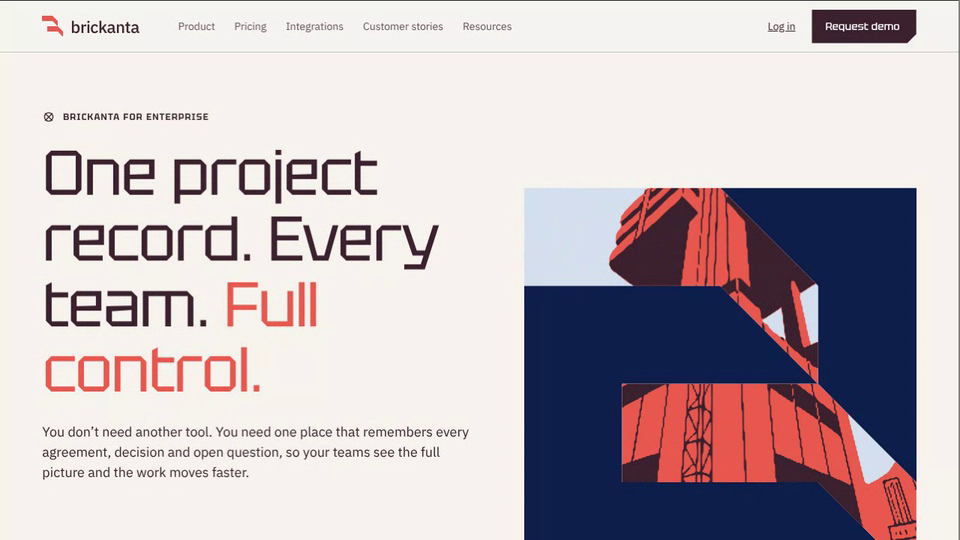
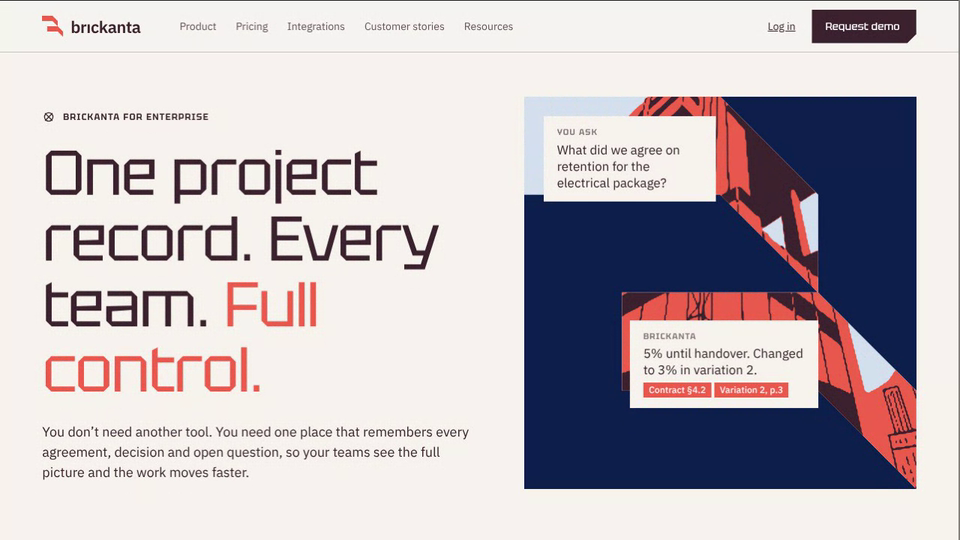
Brickanta Enterprise: morphing footer shapes, hero tile raised with blurbs back, dotless semibold logotype
Claude-Session: https://claude.ai/code/session_01AHeBdyM2bYAGUeyg7LiTk8

Changed region(s): [[0.5312, 0.1778, 0.9688, 1.0], [0.1875, 0.0296, 0.5312, 0.0593], [0.0625, 0.0296, 0.1562, 0.0593]]

diff --git a/brickanta-enterprise/index.html b/brickanta-enterprise/index.html
@@ -83,7 +83,7 @@ header nav a{text-decoration:none;opacity:.78}header nav a:hover{opacity:1;text-
 .hl.top{position:absolute;left:0;right:0;top:0}
 
 /* the mark as a window: coral tile, the logo's two shapes cut out, a scene seen through them */
-.tile{position:relative;aspect-ratio:1;background:var(--navy);width:100%;max-width:560px;justify-self:end}
+.tile{align-self:start;margin-top:-18px;position:relative;aspect-ratio:1;background:var(--navy);width:100%;max-width:560px;justify-self:end}
 .tile .win{position:absolute;inset:0;overflow:hidden}
 .tile .winA{clip-path:url(#markA)}.tile .winB{clip-path:url(#markB)}
 .tile .in-a,.tile .in-b{position:absolute;inset:-12%;background:var(--ice);transition:transform 1.6s var(--ease)}
@@ -91,11 +91,11 @@ header nav a{text-decoration:none;opacity:.78}header nav a:hover{opacity:1;text-
 .tile.go .in-a,.tile.go .in-b{transform:none}
 .tile .lines{position:absolute;inset:0;color:var(--navy);opacity:.16;background-size:auto}
 .tile .scene{position:absolute;left:9.68%;top:9.68%;width:80.64%;height:80.64%}
-.msg{position:absolute;font-size:clamp(11px,1.45vw,17px);line-height:1.3;color:var(--plum)}
+.msg{z-index:3;background:var(--paper);padding:.85em 1.05em;position:absolute;font-size:clamp(11px,1.45vw,17px);line-height:1.3;color:var(--plum)}
 .msg small{display:block;font-size:.66em;letter-spacing:.14em;text-transform:uppercase;font-weight:600;opacity:.6;margin-bottom:.4em}
 .msg .src{display:inline-block;margin-top:.5em;padding:.15em .6em;background:var(--coral);color:#fff;font-size:.72em;font-weight:500}
-.mA{left:6%;top:6%;width:42%}
-.mB{left:30%;top:56%;width:44%}
+.mA{left:5%;top:5%;width:44%}
+.mB{left:27%;top:57%;width:48%}
 .tile .tag{position:absolute;right:5%;bottom:4%;font-size:12px;letter-spacing:.14em;text-transform:uppercase;font-weight:600;color:#fff;opacity:.9}
 @media(max-width:860px){.hero .wrap{grid-template-columns:1fr}.tile{justify-self:start;max-width:440px}.facts{grid-template-columns:1fr}.facts div+div{border-left:0;padding-left:0;border-top:1px solid rgba(60,34,46,.25);margin-top:16px}}
 
@@ -249,7 +249,8 @@ header nav a{text-decoration:none;opacity:.78}header nav a:hover{opacity:1;text-
 .cta{overflow:hidden}
 .cta h2{font-size:clamp(40px,7.4vw,112px);color:#fff;max-width:14ch;position:relative}
 .cta .wrap{position:relative}
-.cta .mk{position:absolute;right:var(--pad);top:50%;width:clamp(160px,26vw,380px);transform:translateY(-50%);opacity:.95}
+.cta{min-height:clamp(520px,46vw,700px);display:flex;align-items:center}.cta .wrap{width:100%}
+.cta .mk{position:absolute;right:var(--pad);top:50%;width:clamp(240px,42vw,640px);aspect-ratio:1;transform:translateY(-50%);overflow:visible}
 .cta p{margin-top:22px;font-size:19px}
 @media(max-width:860px){.cta .mk{opacity:.18}}
 
@@ -293,7 +294,7 @@ h2{font-size:clamp(30px,3.8vw,54px);line-height:1.08}
 .sys{--cut:clamp(14px,1.6vw,24px)}
 /* Tektur runs wide, so tighten it a little */
 h1,h2,h3,.cost q,.tabs .t,.card .big,.faq summary,footer .tag{letter-spacing:-.03em}
-.brand{font-family:var(--sans);font-weight:500;letter-spacing:-.02em}
+.brand{font-family:var(--sans);font-weight:600;letter-spacing:-.02em}
 .panel a.more,.chips span{font-family:var(--sans);letter-spacing:0}.panel a.more{font-weight:500}.btn{letter-spacing:0}
 .cost .n,.edge .big,.stats .v,.role .num,.plan .price{letter-spacing:-.055em}
 .eyebrow,footer h4,.card .hd,.tile .tag,.msg small{letter-spacing:.1em}
@@ -324,7 +325,7 @@ h1,h2,h3,.cost q,.tabs .t,.card .big,.faq summary,footer .tag{letter-spacing:-.0
 
 <header class="site">
   <div class="wrap">
-    <a class="brand" href="#top" aria-label="Brickanta"><svg style="color:var(--coral)"><use href="#mark"/></svg>brickanta</a>
+    <a class="brand" href="#top" aria-label="Brickanta"><svg style="color:var(--coral)"><use href="#mark"/></svg>brıckanta</a>
     <nav aria-label="Main"><a href="#system">Product</a><a href="#pricing">Pricing</a><a href="#live">Integrations</a><a href="#results">Customer stories</a><a href="#faq">Resources</a></nav>
     <div class="hdr-r"><a href="#" onclick="return false">Log in</a><a class="btn" href="#demo">Request demo</a></div>
   </div>
@@ -345,9 +346,11 @@ h1,h2,h3,.cost q,.tabs .t,.card .big,.faq summary,footer .tag{letter-spacing:-.0
         <div><span class="hl top"></span><b>Every answer has a source</b>Linked to the page it came from</div>
       </div>
     </div>
-    <div class="tile" id="tile" role="img" aria-label="A coral tile with two angled windows in the shape of the Brickanta logo, showing a tower seen from below in maroon and coral.">
+    <div class="tile" id="tile" role="img" aria-label="A coral tile with two angled windows in the shape of the Brickanta logo, showing a tower seen from below in maroon and coral, with a question about retention and its sourced answer.">
       <div class="win winA"><div class="in-a"><svg class="scene"><use href="#ill"/></svg></div></div>
       <div class="win winB"><div class="in-b"><svg class="scene"><use href="#ill"/></svg></div></div>
+      <div class="msg mA"><small>You ask</small>What did we agree on retention for the electrical package?</div>
+      <div class="msg mB"><small>Brickanta</small>5% until handover. Changed to 3% in variation 2.<br><span class="src">Contract §4.2</span> <span class="src">Variation 2, p.3</span></div>
     </div>
   </div>
 </section>
@@ -516,7 +519,7 @@ h1,h2,h3,.cost q,.tabs .t,.card .big,.faq summary,footer .tag{letter-spacing:-.0
     <h2 class="rv" style="margin-top:22px">See Brickanta in action</h2>
     <p class="lede rv" style="--d:.1s;opacity:1;color:var(--navy)">Get a closer look at the platform built for construction teams.</p>
     <div class="row-btns rv" style="--d:.2s"><a class="btn light" href="#demo">Request demo</a><a class="btn alt" href="#pricing">Explore pricing</a></div>
-    <svg class="mk" style="color:#fff"><use href="#mark"/></svg>
+    <svg class="mk morph" id="morph" viewBox="0 0 6 6" aria-hidden="true"><polygon id="mA" fill="#fff"/><polygon id="mB" fill="#0e1f4c"/></svg>
   </div>
 </section>
 </main>
@@ -524,7 +527,7 @@ h1,h2,h3,.cost q,.tabs .t,.card .big,.faq summary,footer .tag{letter-spacing:-.0
 <footer>
   <div class="wrap">
     <div class="fgrid">
-      <div><a class="brand" href="#top"><svg style="color:var(--coral)"><use href="#mark"/></svg>brickanta</a><p class="tag">Run your construction projects like craft.</p></div>
+      <div><a class="brand" href="#top" aria-label="Brickanta"><svg style="color:var(--coral)"><use href="#mark"/></svg>brıckanta</a><p class="tag">Run your construction projects like craft.</p></div>
       <div><h4><span>01</span>Product</h4><ul><li><a href="#system">Features</a></li><li><a href="#pricing">Pricing</a></li><li><a href="#live">Integrations</a></li><li><a href="#results">Customers</a></li><li><a href="#">Changelog</a></li></ul></div>
       <div><h4><span>02</span>Teams</h4><ul><li><a href="#roles">Estimating &amp; Bid</a></li><li><a href="#roles">Procurement</a></li><li><a href="#roles">Project leads</a></li><li><a href="#roles">Leadership</a></li></ul></div>
       <div><h4><span>03</span>Company</h4><ul><li><a href="#">About us</a></li><li><a href="#">Careers</a></li><li><a href="#">Blog</a></li><li><a href="#">Brickanta Summit</a></li><li><a href="#">Academy</a></li></ul></div>
@@ -591,6 +594,47 @@ h1,h2,h3,.cost q,.tabs .t,.card .big,.faq summary,footer .tag{letter-spacing:-.0
   var tile=$('#tile');requestAnimationFrame(function(){requestAnimationFrame(function(){tile.classList.add('go')})});
   /* hairlines in the hero facts and steps */
   [].forEach.call(document.querySelectorAll('.hl.top'),function(h,i){h.style.transitionDelay=(.5+i*.15)+'s';setTimeout(function(){h.classList.add('in')},100)});
+
+
+  /* ---- footer morph: two bars with 45 degree turns on a 6 x 6 grid, every second a new combination ---- */
+  (function(){
+    var svg=$('#morph');if(!svg)return;
+    var base=function(w,d){return [[0,0],[w,0],[w+d,d],[w+d,d+1],[w,1],[0,1]]};
+    /* x,y = top-left on the grid, w = length of the flat part, d = length of the diagonal, r = quarter turns, m = mirrored */
+    function shape(x,y,w,d,r,m){
+      var bw=w+d,bh=d+1,pts=base(w,d);
+      if(m){pts=pts.map(function(q){return [bw-q[0],q[1]]}).reverse()}
+      for(var k=0;k<r;k++){var H=(k%2?bw:bh);pts=pts.map(function(q){return [H-q[1],q[0]]});var t=bw;bw=bh;bh=t}
+      return pts.map(function(q){return [q[0]+x,q[1]+y]});
+    }
+    var COMBOS=[
+      [[0,0,3,2,0,0],[1,3,3,2,0,0]],
+      [[1,0,3,2,0,1],[0,3,3,2,0,1]],
+      [[0,0,3,2,1,0],[3,1,3,2,1,0]],
+      [[3,0,3,2,1,1],[0,1,3,2,1,1]],
+      [[1,0,3,2,2,0],[0,3,3,2,2,0]],
+      [[0,1,3,2,3,0],[3,0,3,2,3,0]],
+      [[0,0,4,2,0,0],[0,3,4,2,0,1]],
+      [[0,1,4,1,0,0],[1,4,4,1,0,0]]
+    ].map(function(c){return c.map(function(a){return shape.apply(null,a)})});
+    var A=$('#mA'),B=$('#mB'),cur=0,tw=null;
+    function put(poly,pts){poly.setAttribute('points',pts.map(function(q){return q[0].toFixed(3)+','+q[1].toFixed(3)}).join(' '))}
+    function draw(c){put(A,c[0]);put(B,c[1])}
+    draw(COMBOS[0]);
+    var ease=function(t){return t<.5?4*t*t*t:1-Math.pow(-2*t+2,3)/2};
+    function to(i,dur){
+      var from=COMBOS[cur],dest=COMBOS[i];cur=i;
+      if(!dur){draw(dest);return}
+      cancelAnimationFrame(tw);var t0=performance.now();
+      (function f(now){var u=Math.min(1,(now-t0)/dur),e=ease(u);
+        draw([0,1].map(function(s){return from[s].map(function(q,k){return [q[0]+(dest[s][k][0]-q[0])*e,q[1]+(dest[s][k][1]-q[1])*e]})}));
+        if(u<1)tw=requestAnimationFrame(f)})(t0);
+    }
+    var seen=false,reduce=window.matchMedia&&matchMedia('(prefers-reduced-motion: reduce)').matches;
+    new IntersectionObserver(function(e){seen=e[0].isIntersecting},{threshold:.2}).observe(svg);
+    if(!reduce&&!CLIP)setInterval(function(){if(seen)to((cur+1)%COMBOS.length,700)},1000);
+    window.__mk={n:COMBOS.length,show:function(i){to(i,0)}};
+  })();
 
   /* ---- recorder hooks ---- */
   window.__bk={go:function(i){auto=false;go(i)},scroll:function(y){window.scrollTo({top:y,behavior:'smooth'})},sec:function(id){var e=document.getElementById(id);window.scrollTo({top:e.getBoundingClientRect().top+scrollY-70,behavior:'smooth'})}};
